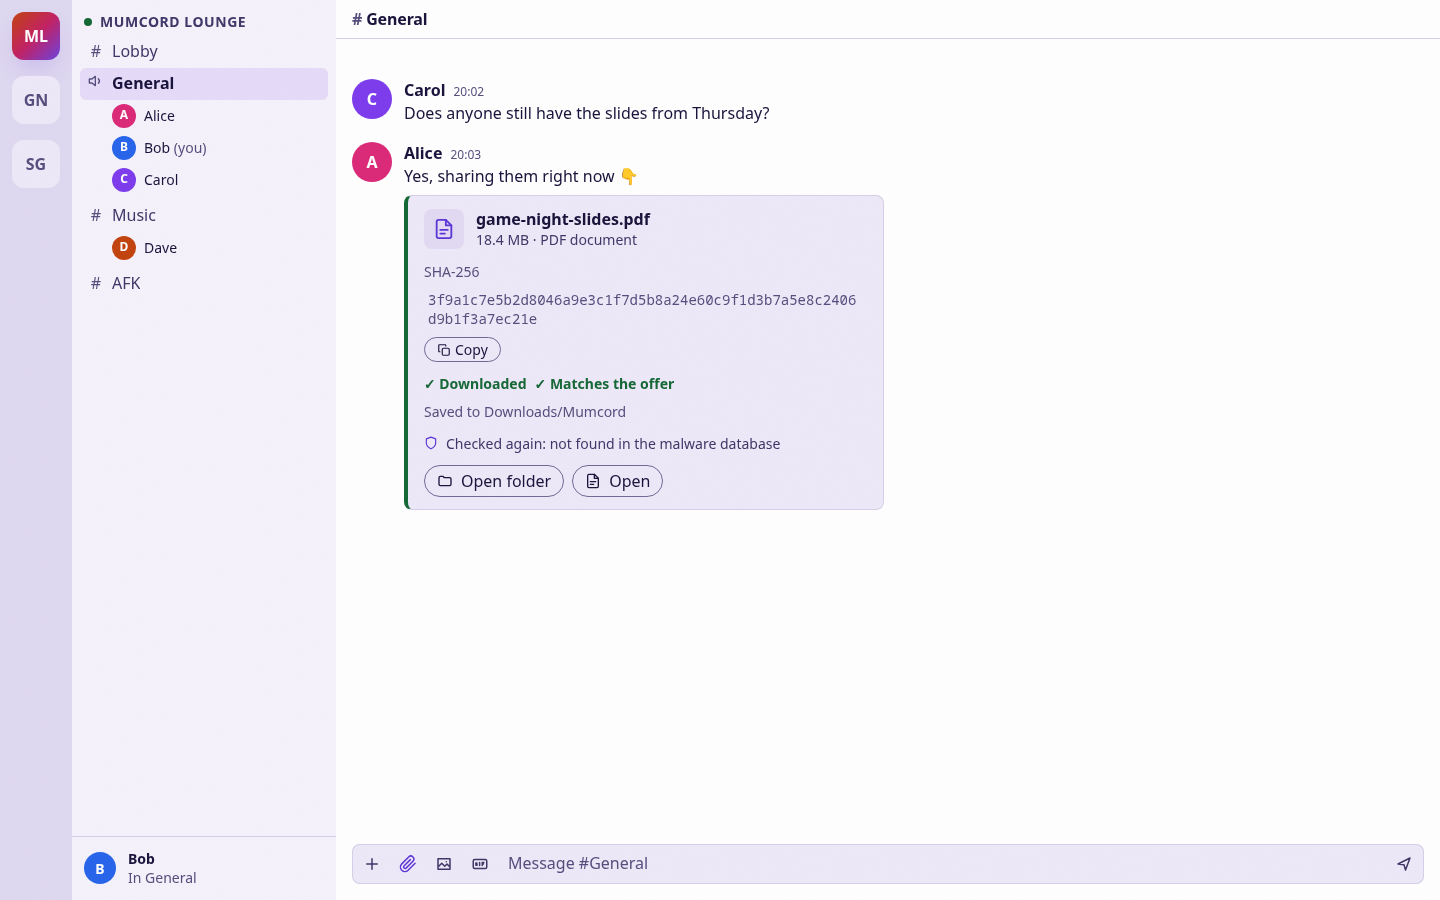
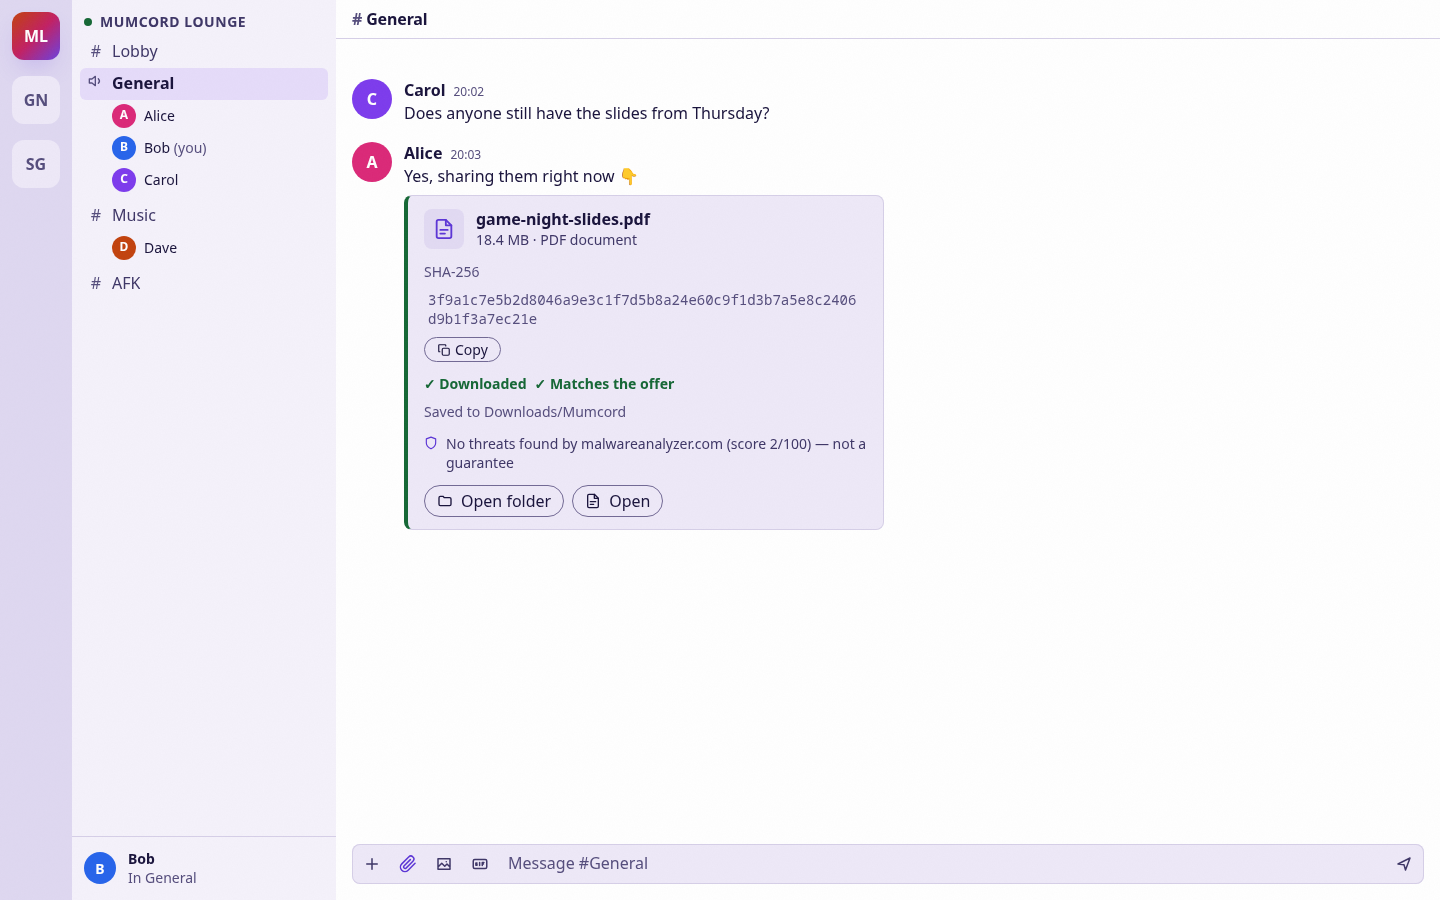
docs: show MalwareAnalyzer verdict, score and top signals in Epic 4.1 mockups
The API's HTTP 200 only means a report exists; the verdict lives in the
JSON body. Malicious offers and downloads now show the score, the top
two signals and a Details link to the provider's report. The done card
shows the 'no threats found (score) - not a guarantee' line, and a new
mockup 14 shows the amber warning for a suspicious verdict.

Changed region(s): [[0.2812, 0.4667, 0.5625, 0.5911]]

diff --git a/docs/mockups/epic-4.1/14-suspicious.html b/docs/mockups/epic-4.1/14-suspicious.html
@@ -1,0 +1,68 @@
+<!doctype html>
+<html lang="en" data-theme="dark">
+<head>
+<meta charset="utf-8">
+<meta name="viewport" content="width=device-width, initial-scale=1">
+<title>Recipient – suspicious offer – Epic 4.1 mockup</title>
+<!-- Same fonts the app bundles via @fontsource (not installed for static mockups). -->
+<link rel="stylesheet" href="https://fonts.googleapis.com/css2?family=Bricolage+Grotesque:opsz,wght@12..96,200..800&family=Instrument+Sans:wght@400..700&display=swap">
+<link rel="stylesheet" href="../../../ui/src/theme/global.css">
+<link rel="stylesheet" href="../../../ui/src/app/shell.css">
+<link rel="stylesheet" href="../../../ui/src/features/app/app.css">
+<link rel="stylesheet" href="../../../ui/src/features/servers/servers.css">
+<link rel="stylesheet" href="../../../ui/src/features/channels/channels.css">
+<link rel="stylesheet" href="../../../ui/src/features/members/members.css">
+<link rel="stylesheet" href="../../../ui/src/features/chat/chat.css">
+<link rel="stylesheet" href="../../../ui/src/features/chat/mediaCards.css">
+<link rel="stylesheet" href="../../../ui/src/features/plugins/prompt/progress.css">
+<link rel="stylesheet" href="../../../ui/src/features/settings/settings.css">
+<link rel="stylesheet" href="mock.css">
+<!-- ?theme=light switches to the light theme, like the app's data-theme on <html>. -->
+<script>document.documentElement.dataset.theme = new URLSearchParams(location.search).get("theme") || "dark";</script>
+</head>
+<body class="">
+<div class="shell" style="--channels-width: 16.5rem; --members-column-width: 0px">
+  <nav class="shell__servers" aria-label="Servers"><div class="server-bar"><ul class="server-bar__list"><li class="server-bar__item" data-active><button class="server-bar__server mock-server mock-server--active" type="button" aria-label="Mumcord Lounge">ML</button></li><li class="server-bar__item"><button class="server-bar__server mock-server" type="button" aria-label="Game Night">GN</button></li><li class="server-bar__item"><button class="server-bar__server mock-server" type="button" aria-label="Study Group">SG</button></li></ul></div></nav>
+  <div class="shell__channel-column" aria-label="Channels">
+    <div class="mock-section"><h2 class="server-section__title"><span class="server-section__dot"></span><span class="server-section__name">Mumcord Lounge</span></h2></div>
+    <ul class="mock-tree"><li class="mock-channel"><div class="tree-channel__row"><span class="tree-channel__glyph"><span class="mock-hash">#</span></span><span class="tree-channel__label"><span class="tree-channel__name">Lobby</span></span></div></li><li class="mock-channel"><div class="tree-channel__row" data-here><span class="tree-channel__glyph"><svg viewBox="0 0 24 24" width="16" height="16" aria-hidden="true" fill="none" stroke="currentColor" stroke-width="2" stroke-linecap="round" stroke-linejoin="round"><path d="M11 5 6 9H2v6h4l5 4zM15.5 8.5a5 5 0 0 1 0 7"/></svg></span><span class="tree-channel__label"><span class="tree-channel__name">General</span></span></div><ul class="mock-people"><li class="tree-person mock-person"><span class="tree-person__row"><span class="avatar" data-size="sm" data-initial="A" style="--avatar-bg: var(--color-avatar-4)" aria-hidden="true"></span><span class="tree-person__name">Alice</span></span></li><li class="tree-person mock-person"><span class="tree-person__row"><span class="avatar" data-size="sm" data-initial="B" style="--avatar-bg: var(--color-avatar-8)" aria-hidden="true"></span><span class="tree-person__name">Bob <span class="tree-person__you">(you)</span></span></span></li><li class="tree-person mock-person"><span class="tree-person__row"><span class="avatar" data-size="sm" data-initial="C" style="--avatar-bg: var(--color-avatar-2)" aria-hidden="true"></span><span class="tree-person__name">Carol</span></span></li></ul></li><li class="mock-channel"><div class="tree-channel__row"><span class="tree-channel__glyph"><span class="mock-hash">#</span></span><span class="tree-channel__label"><span class="tree-channel__name">Music</span></span></div><ul class="mock-people"><li class="tree-person mock-person"><span class="tree-person__row"><span class="avatar" data-size="sm" data-initial="D" style="--avatar-bg: var(--color-avatar-6)" aria-hidden="true"></span><span class="tree-person__name">Dave</span></span></li></ul></li><li class="mock-channel"><div class="tree-channel__row"><span class="tree-channel__glyph"><span class="mock-hash">#</span></span><span class="tree-channel__label"><span class="tree-channel__name">AFK</span></span></div></li></ul>
+    <section class="shell__user-panel mock-userpanel" aria-label="You"><span class="avatar" data-size="md" data-initial="B" style="--avatar-bg: var(--color-avatar-8)" aria-hidden="true"></span><span><strong>Bob</strong><br><span class="mock-muted">In General</span></span></section>
+  </div>
+  <main class="shell__chat" aria-label="Chat">
+  <header class="chat-header"><h2 class="chat-header__title"><span class="chat-header__hash" aria-hidden="true">#</span>General</h2></header>
+  <div class="shell__chat-body">
+    <div class="chat-list-frame"><div class="chat-list"><ul class="chat-list__items"><li class="chat-message chat-message--start"><div class="chat-message__row">
+  <div class="chat-message__gutter"><span class="avatar" data-size="md" data-initial="C" style="--avatar-bg: var(--color-avatar-2)" aria-hidden="true"></span></div>
+  <div class="chat-message__content"><div class="chat-message__header"><span class="chat-message__sender">Carol</span><time class="chat-message__time">20:02</time></div>
+  <div class="chat-message__body"><p>Does anyone still have the slides from Thursday?</p></div></div></div></li><li class="chat-message chat-message--start"><div class="chat-message__row">
+  <div class="chat-message__gutter"><span class="avatar" data-size="md" data-initial="A" style="--avatar-bg: var(--color-avatar-4)" aria-hidden="true"></span></div>
+  <div class="chat-message__content"><div class="chat-message__header"><span class="chat-message__sender">Alice</span><time class="chat-message__time">20:03</time></div>
+  <div class="chat-message__body"><p>Not the slides, but here are the tournament rules 👇</p></div></div></div></li><li class="chat-message"><div class="chat-message__row"><div class="chat-message__gutter"></div>
+  <div class="chat-message__content"><div class="chat-message__body"><div class="audio-card file-card" data-state="suspicious" role="group" aria-label="File tournament-rules.pdf, suspicious">
+  <div class="audio-card__head">
+    <span class="audio-card__icon"><svg viewBox="0 0 24 24" width="22" height="22" aria-hidden="true" fill="none" stroke="currentColor" stroke-width="2" stroke-linecap="round" stroke-linejoin="round"><path d="M14 2H6a2 2 0 0 0-2 2v16a2 2 0 0 0 2 2h12a2 2 0 0 0 2-2V8z"/><path d="M14 2v6h6M8 13h8M8 17h5"/></svg></span>
+    <div class="audio-card__text"><p class="audio-card__name">tournament-rules.pdf</p><p class="audio-card__facts">2.3 MB · PDF document</p></div>
+  </div>
+  
[1 lines of base64/hex data omitted]
+  <p class="file-card__status"><span class="file-card__dot" data-online></span>Available while Alice is online · ends tomorrow at 20:04</p>
+  <div class="malware-alert malware-alert--suspicious" role="alert"><span class="malware-alert__icon"><svg viewBox="0 0 24 24" width="22" height="22" aria-hidden="true" fill="none" stroke="currentColor" stroke-width="2" stroke-linecap="round" stroke-linejoin="round"><path d="M10.3 3.9 1.8 18a2 2 0 0 0 1.7 3h17a2 2 0 0 0 1.7-3L13.7 3.9a2 2 0 0 0-3.4 0zM12 9v4M12 17h.01"/></svg></span><div><p class="malware-alert__title">Suspicious – check before downloading</p><p class="malware-alert__score">Score 54/100 from malwareanalyzer.com</p><ul class="malware-alert__signals" aria-label="Top findings"><li>Emsisoft (Emergency Kit) flagged PDF.Spam.Heur.1</li><li>MalwareAnalyser heuristics (entropy/packer) flagged high-entropy-blob</li></ul><p>Some signs point to a harmful file, but it isn't confirmed. Only download it if you trust Alice and expected this file.</p><a class="malware-alert__details" href="https://malwareanalyzer.com/report/8c41d0e9a7f35b26c1e8d4a09f7b3e52d6a1c8f40b9e27d5a3c6f1e08b4d97a2" title="Opens malwareanalyzer.com in your browser">Details on malwareanalyzer.com<svg viewBox="0 0 24 24" width="14" height="14" aria-hidden="true" fill="none" stroke="currentColor" stroke-width="2" stroke-linecap="round" stroke-linejoin="round"><path d="M14 3h7v7M10 14 21 3M19 14v5a2 2 0 0 1-2 2H5a2 2 0 0 1-2-2V7a2 2 0 0 1 2-2h5"/></svg><span class="mock-sr">(opens in your browser)</span></a></div></div>
+  <div class="file-card__actions"><button type="button" class="media-pill file-card__button file-card__button--warning"><svg viewBox="0 0 24 24" width="16" height="16" aria-hidden="true" fill="none" stroke="currentColor" stroke-width="2" stroke-linecap="round" stroke-linejoin="round"><path d="M12 3v12M7 10l5 5 5-5M5 21h14"/></svg><span>Download anyway…</span></button><span class="mock-muted">Asks you to confirm first.</span></div>
+</div></div></div></div></li></ul></div></div>
+    <form class="chat-composer" aria-label="Message composer">
+  
+  <div class="chat-composer__row">
+    <div class="chat-apps"><button type="button" class="chat-composer__icon chat-apps__button" aria-label="Apps"><svg viewBox="0 0 24 24" width="18" height="18" aria-hidden="true" fill="none" stroke="currentColor" stroke-width="2" stroke-linecap="round" stroke-linejoin="round"><path d="M12 5v14M5 12h14"/></svg></button></div>
+    <button type="button" class="chat-composer__icon mock-new" aria-label="Attach a file" data-tooltip="Attach a file"><svg viewBox="0 0 24 24" width="18" height="18" aria-hidden="true" fill="none" stroke="currentColor" stroke-width="2" stroke-linecap="round" stroke-linejoin="round"><path d="m21.4 11.1-9.2 9.2a6 6 0 0 1-8.5-8.5l9.2-9.2a4 4 0 0 1 5.7 5.7l-9.2 9.2a2 2 0 0 1-2.8-2.8l8.5-8.5"/></svg></button>
+    <button type="button" class="chat-composer__icon" aria-label="Add image"><svg viewBox="0 0 24 24" width="18" height="18" aria-hidden="true" fill="none" stroke="currentColor" stroke-width="2" stroke-linecap="round" stroke-linejoin="round"><path d="M4 5h16v14H4zM4 16l5-5 4 4 3-3 4 4M15 9h.01"/></svg></button>
+    <button type="button" class="chat-composer__icon" aria-label="GIF"><svg viewBox="0 0 24 24" width="18" height="18" aria-hidden="true" fill="none" stroke="currentColor" stroke-width="2" stroke-linecap="round" stroke-linejoin="round"><rect x="3" y="6" width="18" height="12" rx="2"/><path d="M8 10.5h-1.5v3H8v-1.2M11.5 10v4M15 14v-4h2.2M15 12h1.6"/></svg></button>
+    <textarea class="chat-composer__input" rows="1" aria-label="Message #General" placeholder="Message #General"></textarea>
+    <button type="submit" class="chat-composer__icon" aria-label="Send"><svg viewBox="0 0 24 24" width="18" height="18" aria-hidden="true" fill="none" stroke="currentColor" stroke-width="2" stroke-linecap="round" stroke-linejoin="round"><path d="M4 12l16-8-6 16-2-7z"/></svg></button>
+  </div>
+</form>
+  </div>
+  
+</main>
+</div>
+</body>
+</html>

diff --git a/docs/mockups/epic-4.1/02b-offer-malware.html b/docs/mockups/epic-4.1/02b-offer-malware.html
@@ -46,7 +46,7 @@
   
[1 lines of base64/hex data omitted]
   <p class="file-card__status"><span class="file-card__dot" data-online></span>Available while Alice is online · ends tomorrow at 20:04</p>
-  <div class="malware-alert" role="alert"><span class="malware-alert__icon"><svg viewBox="0 0 24 24" width="22" height="22" aria-hidden="true" fill="none" stroke="currentColor" stroke-width="2" stroke-linecap="round" stroke-linejoin="round"><path d="M10.3 3.9 1.8 18a2 2 0 0 0 1.7 3h17a2 2 0 0 0 1.7-3L13.7 3.9a2 2 0 0 0-3.4 0zM12 9v4M12 17h.01"/></svg></span><div><p class="malware-alert__title">Known malware – download blocked</p><p>The malware database knows this exact file (checked from the offer's fingerprint, before downloading anything). Don't download it.</p></div></div>
+  <div class="malware-alert" role="alert"><span class="malware-alert__icon"><svg viewBox="0 0 24 24" width="22" height="22" aria-hidden="true" fill="none" stroke="currentColor" stroke-width="2" stroke-linecap="round" stroke-linejoin="round"><path d="M10.3 3.9 1.8 18a2 2 0 0 0 1.7 3h17a2 2 0 0 0 1.7-3L13.7 3.9a2 2 0 0 0-3.4 0zM12 9v4M12 17h.01"/></svg></span><div><p class="malware-alert__title">Malicious – download blocked</p><p class="malware-alert__score">Score 91/100 from malwareanalyzer.com</p><ul class="malware-alert__signals" aria-label="Top findings"><li>Kaspersky (KVRT) flagged HEUR:Trojan.Script.Generic</li><li>Embedded link rated malicious by URL analysis</li></ul><p>Checked from the offer's fingerprint, before downloading anything. Don't download it.</p><a class="malware-alert__details" href="https://malwareanalyzer.com/report/3f9a1c7e5b2d8046a9e3c1f7d5b8a24e60c9f1d3b7a5e8c2406d9b1f3a7ec21e" title="Opens malwareanalyzer.com in your browser">Details on malwareanalyzer.com<svg viewBox="0 0 24 24" width="14" height="14" aria-hidden="true" fill="none" stroke="currentColor" stroke-width="2" stroke-linecap="round" stroke-linejoin="round"><path d="M14 3h7v7M10 14 21 3M19 14v5a2 2 0 0 1-2 2H5a2 2 0 0 1-2-2V7a2 2 0 0 1 2-2h5"/></svg><span class="mock-sr">(opens in your browser)</span></a></div></div>
   <div class="file-card__actions"><button type="button" class="button button--primary file-card__button" disabled aria-disabled="true"><svg viewBox="0 0 24 24" width="16" height="16" aria-hidden="true" fill="none" stroke="currentColor" stroke-width="2" stroke-linecap="round" stroke-linejoin="round"><path d="M12 3v12M7 10l5 5 5-5M5 21h14"/></svg><span>Download</span></button></div>
 </div></div></div></div></li></ul></div></div>
     <form class="chat-composer" aria-label="Message composer">

diff --git a/docs/mockups/epic-4.1/mock.css b/docs/mockups/epic-4.1/mock.css
@@ -92,13 +92,25 @@ body { overflow: hidden; }
 .plain-log__line { padding: 0.25rem 0.375rem; outline: 2px dashed #c21f62; outline-offset: 2px; }
 
 /* --- Optional malware hash check: result lines and the known-malware alert ----------------- */
-.file-card__scan svg { flex: none; color: var(--color-accent-text); }
+.file-card__scan { flex-wrap: nowrap; align-items: flex-start; }
+.file-card__scan svg { flex: none; margin-top: 0.2em; color: var(--color-accent-text); }
 .file-card__scan--neutral svg { color: var(--color-text-muted); }
 .file-card[data-state="malware"] { border-left-color: var(--color-danger); }
 .file-card[data-state="malware"] .audio-card__icon { color: var(--color-danger); }
 .malware-alert { display: flex; gap: var(--space-3); align-items: flex-start; padding: var(--space-3); border: 1px solid var(--color-danger); border-radius: var(--radius-sm); background: color-mix(in srgb, var(--color-danger) 14%, transparent); font-size: var(--font-size-sm); }
 .malware-alert__icon { display: grid; flex: none; place-items: center; width: 2.25rem; height: 2.25rem; border-radius: 50%; background: var(--color-danger); color: #fff; }
 .malware-alert__title { margin-bottom: var(--space-1) !important; color: var(--color-danger); font-size: var(--font-size-md, 1rem); font-weight: var(--font-weight-bold); }
+/* Verdict details: score, the top signals (plain text from the server, never HTML) and a link to the provider's report. */
+.malware-alert__score { margin-bottom: var(--space-1) !important; font-weight: var(--font-weight-bold); }
+.malware-alert__signals { margin: 0 0 var(--space-2); padding-left: var(--space-4); color: var(--color-text-muted); }
+.malware-alert__signals li { margin: 0; }
+.malware-alert__details { display: inline-flex; margin-top: var(--space-1); gap: var(--space-1); align-items: center; color: var(--color-accent-text); font-weight: var(--font-weight-bold); text-decoration: underline; }
+.file-card[data-state="suspicious"] { border-left-color: var(--color-warning); }
+.file-card[data-state="suspicious"] .audio-card__icon { color: var(--color-warning); }
+.malware-alert--suspicious { border-color: var(--color-warning); background: color-mix(in srgb, var(--color-warning) 14%, transparent); }
+.malware-alert--suspicious .malware-alert__icon { background: var(--color-warning); color: #fff; }
+.malware-alert--suspicious .malware-alert__title { color: var(--color-warning); }
+.file-card__button--warning { border-color: var(--color-warning); color: var(--color-warning); }
 .file-card__button--delete { background: var(--color-danger); border-color: var(--color-danger); color: #fff; }
 .mock-switch-default { display: block; margin-top: var(--space-1); }
 /* The dark theme's danger red is light, so white text on it would be hard to read. */
@@ -110,3 +122,4 @@ body { overflow: hidden; }
 .file-card__hash-value:focus-visible, .file-card__copy:focus-visible { outline: 2px solid var(--color-accent, currentColor); outline-offset: 2px; }
 .file-card__copy { display: inline-flex; align-items: center; gap: var(--space-1); padding-block: 2px; }
 .mock-sr { position: absolute; width: 1px; height: 1px; overflow: hidden; clip-path: inset(50%); white-space: nowrap; }
+:root[data-theme="dark"] .malware-alert--suspicious .malware-alert__icon { color: #2a1a00; }

diff --git a/docs/mockups/epic-4.1/10-malware-found.html b/docs/mockups/epic-4.1/10-malware-found.html
@@ -44,7 +44,7 @@
     <div class="audio-card__text"><p class="audio-card__name">game-night-slides.pdf</p><p class="audio-card__facts">18.4 MB · PDF document</p></div>
   </div>
   
-  <div class="malware-alert" role="alert"><span class="malware-alert__icon"><svg viewBox="0 0 24 24" width="22" height="22" aria-hidden="true" fill="none" stroke="currentColor" stroke-width="2" stroke-linecap="round" stroke-linejoin="round"><path d="M10.3 3.9 1.8 18a2 2 0 0 0 1.7 3h17a2 2 0 0 0 1.7-3L13.7 3.9a2 2 0 0 0-3.4 0zM12 9v4M12 17h.01"/></svg></span><div><p class="malware-alert__title">Known malware – this file was not opened</p><p>The malware database knows this exact file as harmful. Mumcord moved it to quarantine, so it can't run. Delete it unless you are sure you need it.</p></div></div>
+  <div class="malware-alert" role="alert"><span class="malware-alert__icon"><svg viewBox="0 0 24 24" width="22" height="22" aria-hidden="true" fill="none" stroke="currentColor" stroke-width="2" stroke-linecap="round" stroke-linejoin="round"><path d="M10.3 3.9 1.8 18a2 2 0 0 0 1.7 3h17a2 2 0 0 0 1.7-3L13.7 3.9a2 2 0 0 0-3.4 0zM12 9v4M12 17h.01"/></svg></span><div><p class="malware-alert__title">Malicious – this file was not opened</p><p class="malware-alert__score">Score 91/100 from malwareanalyzer.com</p><ul class="malware-alert__signals" aria-label="Top findings"><li>Kaspersky (KVRT) flagged HEUR:Trojan.Script.Generic</li><li>Embedded link rated malicious by URL analysis</li></ul><p>Mumcord moved it to quarantine, so it can't run. Delete it unless you are sure you need it.</p><a class="malware-alert__details" href="https://malwareanalyzer.com/report/3f9a1c7e5b2d8046a9e3c1f7d5b8a24e60c9f1d3b7a5e8c2406d9b1f3a7ec21e" title="Opens malwareanalyzer.com in your browser">Details on malwareanalyzer.com<svg viewBox="0 0 24 24" width="14" height="14" aria-hidden="true" fill="none" stroke="currentColor" stroke-width="2" stroke-linecap="round" stroke-linejoin="round"><path d="M14 3h7v7M10 14 21 3M19 14v5a2 2 0 0 1-2 2H5a2 2 0 0 1-2-2V7a2 2 0 0 1 2-2h5"/></svg><span class="mock-sr">(opens in your browser)</span></a></div></div>
   <div class="file-card__actions"><button type="button" class="button button--primary file-card__button file-card__button--delete"><svg viewBox="0 0 24 24" width="16" height="16" aria-hidden="true" fill="none" stroke="currentColor" stroke-width="2" stroke-linecap="round" stroke-linejoin="round"><path d="M3 6h18M8 6V4h8v2M6 6l1 14h10l1-14"/></svg><span>Delete</span></button><button type="button" class="media-pill file-card__button file-card__button--danger"><span>Keep anyway…</span></button><span class="mock-muted">Keeping it asks you to confirm first.</span></div>
 </div>
 </div></div></div></div></li></ul></div></div>

diff --git a/docs/mockups/epic-4.1/04-done.html b/docs/mockups/epic-4.1/04-done.html
@@ -46,7 +46,7 @@
   
[1 lines of base64/hex data omitted]
   <p class="file-card__status"><span class="file-card__ok">✓ Downloaded</span><span class="file-card__ok">✓ Matches the offer</span><span class="mock-muted">Saved to Downloads/Mumcord</span></p>
-  <p class="file-card__status file-card__scan"><svg viewBox="0 0 24 24" width="14" height="14" aria-hidden="true" fill="none" stroke="currentColor" stroke-width="2" stroke-linecap="round" stroke-linejoin="round"><path d="M12 22s8-4 8-10V5l-8-3-8 3v7c0 6 8 10 8 10z"/></svg><span>Checked again: not found in the malware database</span></p>
+  <p class="file-card__status file-card__scan"><svg viewBox="0 0 24 24" width="14" height="14" aria-hidden="true" fill="none" stroke="currentColor" stroke-width="2" stroke-linecap="round" stroke-linejoin="round"><path d="M12 22s8-4 8-10V5l-8-3-8 3v7c0 6 8 10 8 10z"/></svg><span>No threats found by malwareanalyzer.com (score 2/100) — not a guarantee</span></p>
   <div class="file-card__actions"><button type="button" class="media-pill file-card__button"><svg viewBox="0 0 24 24" width="16" height="16" aria-hidden="true" fill="none" stroke="currentColor" stroke-width="2" stroke-linecap="round" stroke-linejoin="round"><path d="M3 7a2 2 0 0 1 2-2h4l2 2h8a2 2 0 0 1 2 2v8a2 2 0 0 1-2 2H5a2 2 0 0 1-2-2z"/></svg><span>Open folder</span></button><button type="button" class="media-pill file-card__button"><svg viewBox="0 0 24 24" width="16" height="16" aria-hidden="true" fill="none" stroke="currentColor" stroke-width="2" stroke-linecap="round" stroke-linejoin="round"><path d="M14 2H6a2 2 0 0 0-2 2v16a2 2 0 0 0 2 2h12a2 2 0 0 0 2-2V8z"/><path d="M14 2v6h6M8 13h8M8 17h5"/></svg><span>Open</span></button></div>
 </div></div></div></div></li></ul></div></div>
     <form class="chat-composer" aria-label="Message composer">
